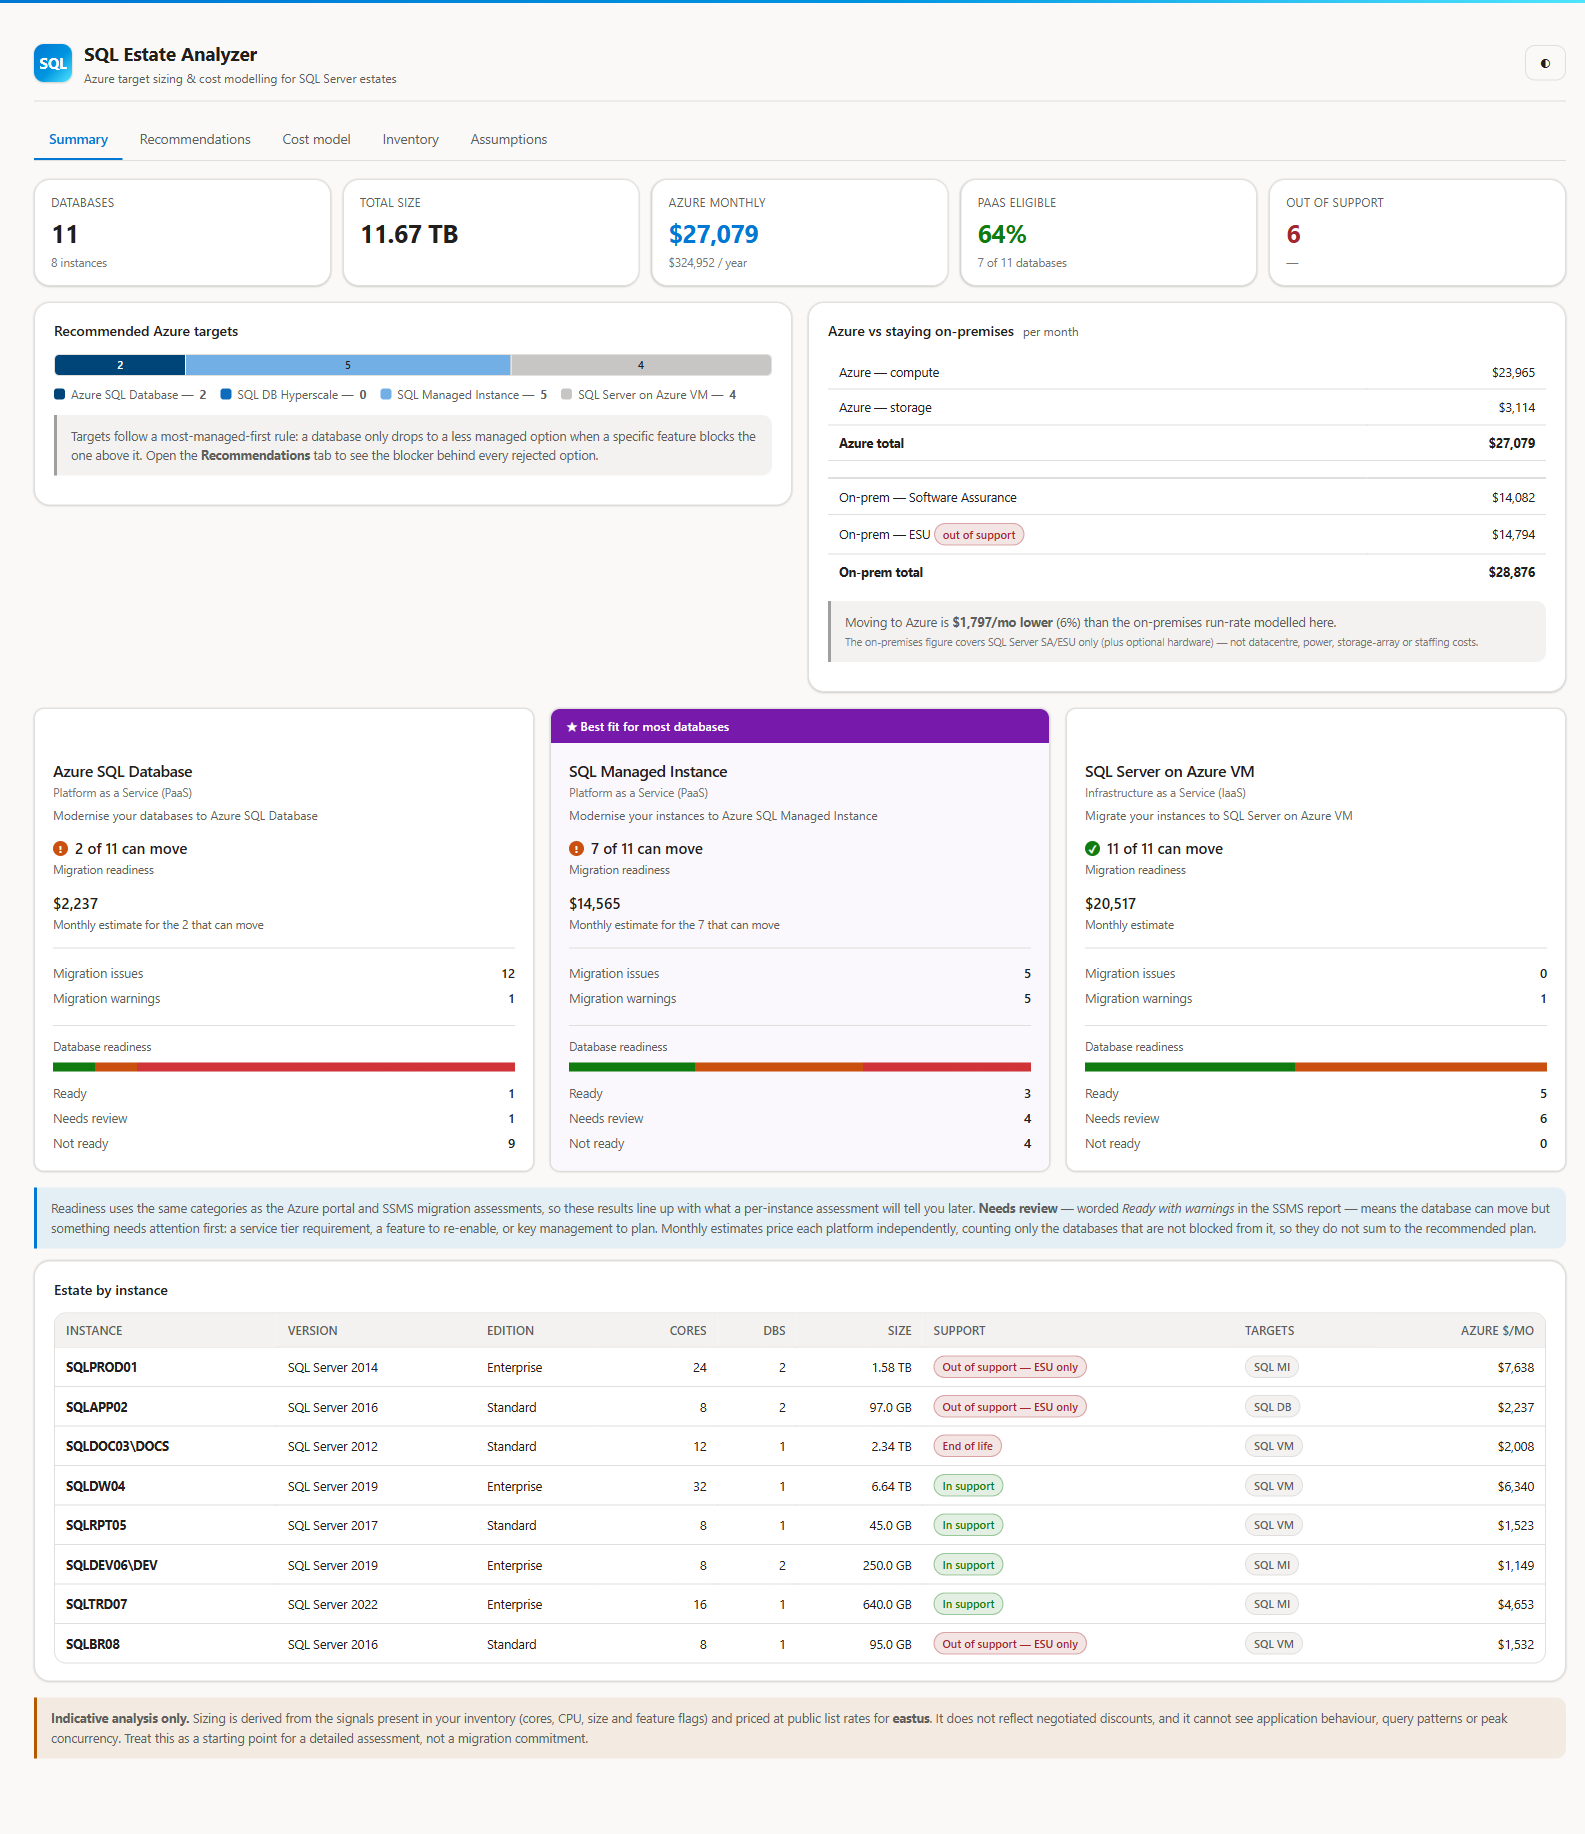
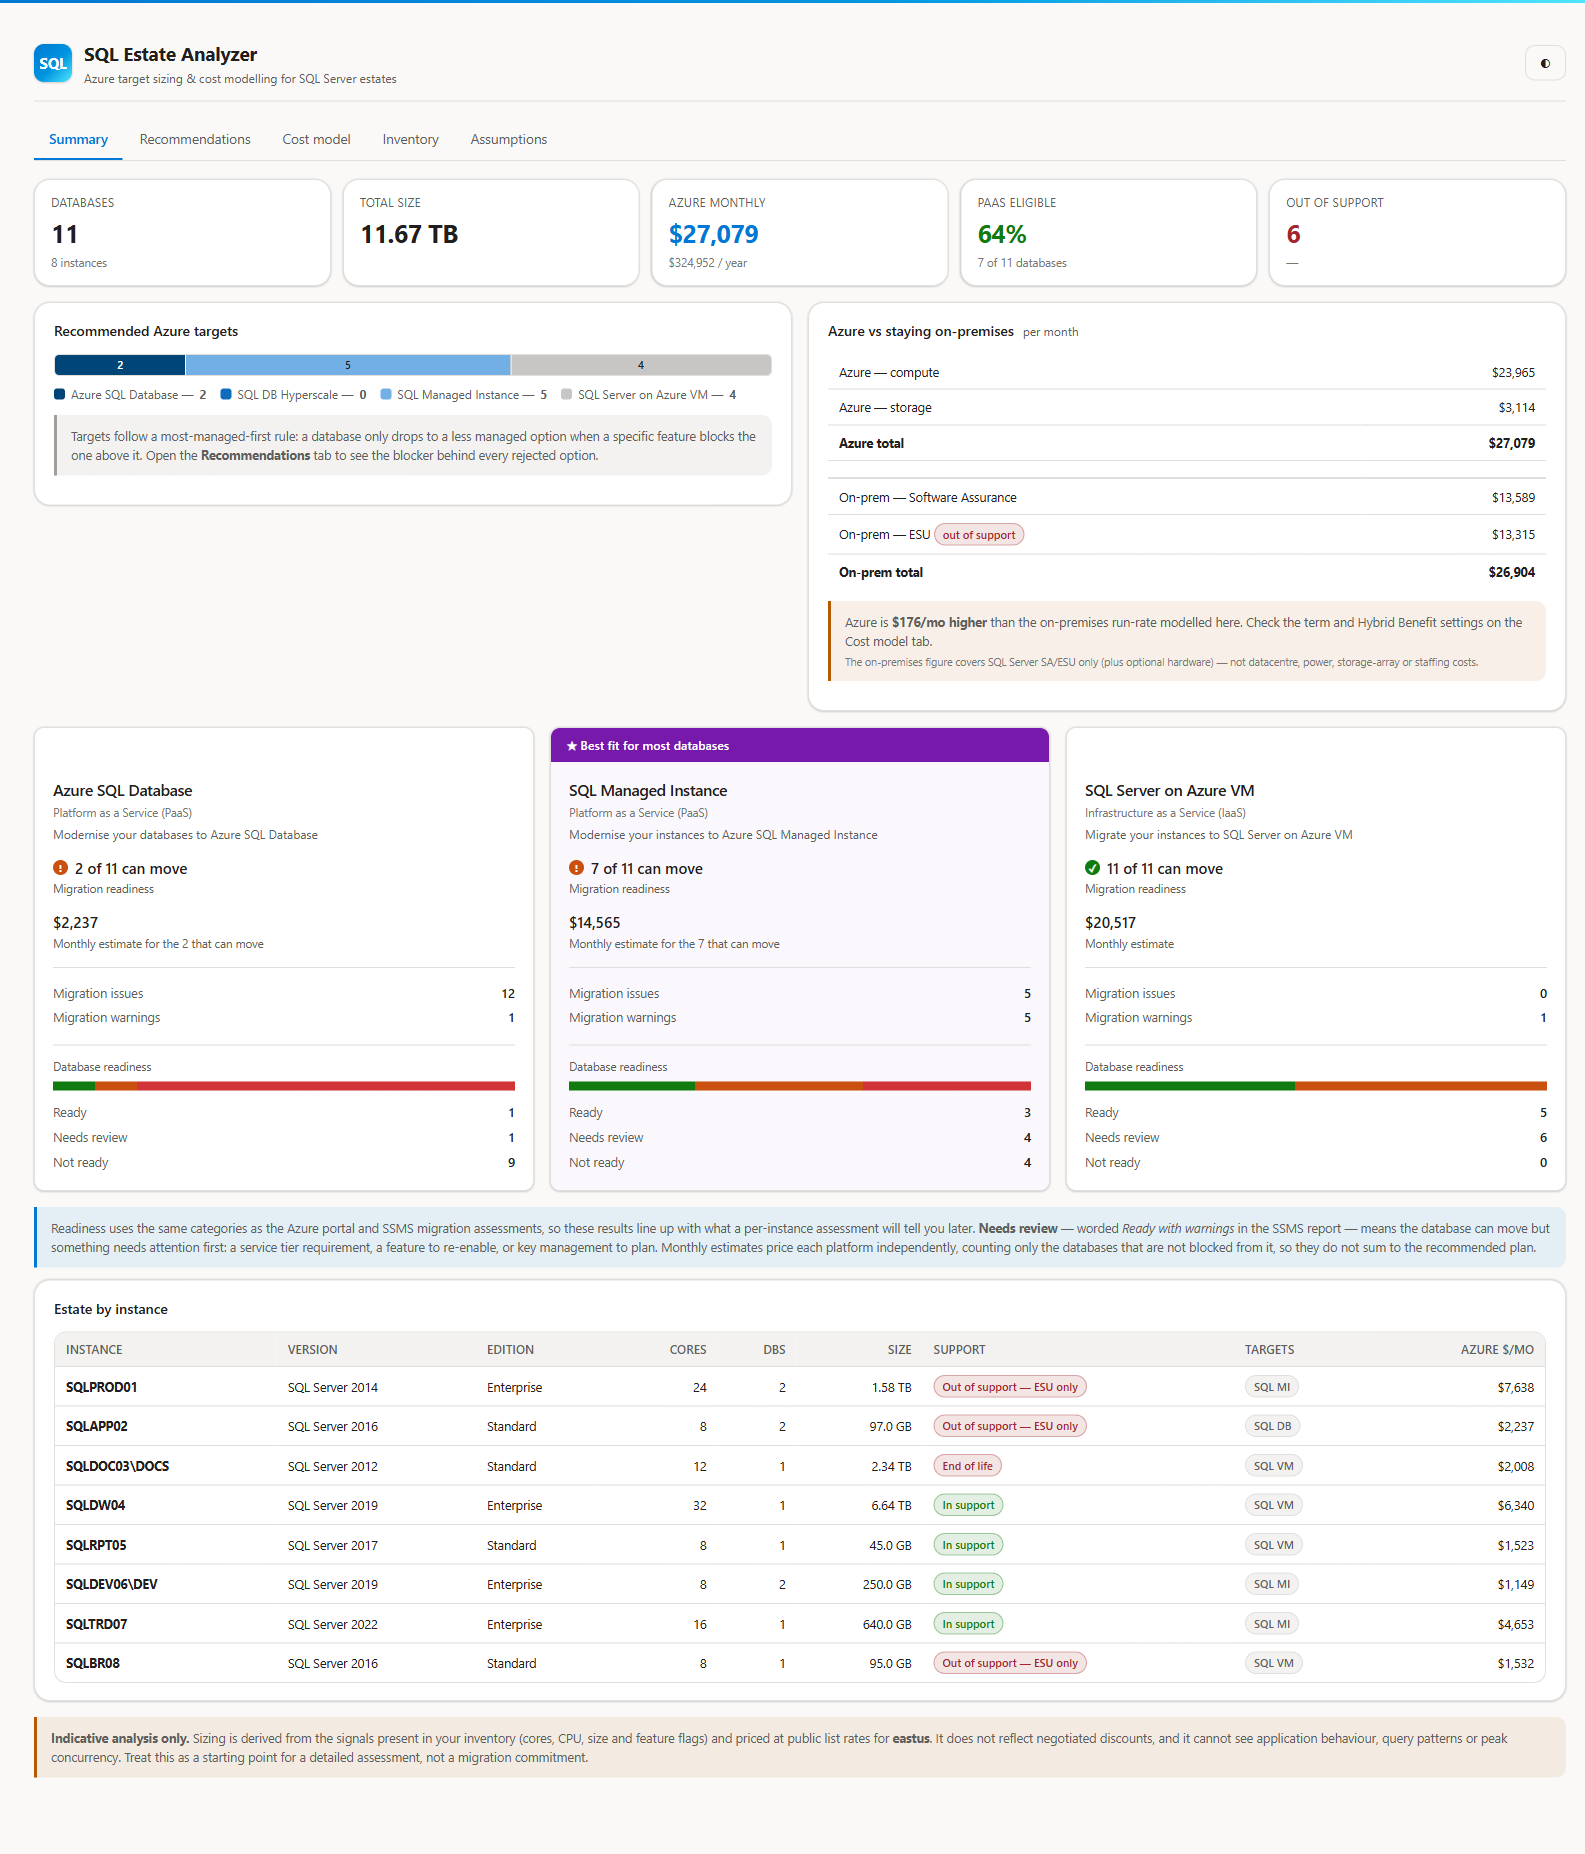
Stop presenting defaulted inputs as if they were collected
Two fields the model depends on cannot be read out of SQL Server, so the
discovery script emits them blank - and the analyzer was quietly filling
them in.

Software Assurance was the real bug. hasSA was parsed onto every row and
then never read: onPremInstanceCost charged an SA renewal unconditionally.
Any customer without SA saw an inflated on-premises baseline, which biases
the comparison in Azure's favour - the worst direction for a number you
put in front of a customer. It is now honoured, and an explicit No zeroes
the ESU line too, since ESU cannot be bought without active SA.

Environment defaults to production, which is the right conservative call
but was invisible. On a real discovery CSV that means every database gets
Business Critical if the instance is Enterprise, full-month hours and no
dev/test discount.

The two defaults push the estimate in opposite directions and neither was
disclosed, so adds a Source data coverage card listing any influential
field the inventory did not supply and the default applied. It only
appears when there are gaps - the demo estate supplies both, so it stays
hidden there and shows up on a real collector run.

Verified against an actual discovery CSV rather than the demo: Environment,
Software Assurance and CPU all report 0 of 2 supplied, and forcing
HasSoftwareAssurance=No moves the on-premises baseline from $329/mo to $0
and flips the verdict from Azure $783 higher to $1,111 higher.

diff --git a/index.html b/index.html
@@ -662,6 +662,43 @@ function isProd(env) {
   return !/dev|test|qa|uat|stage|staging|sandbox|training|demo|poc/.test(s);
 }
 
+/* Software Assurance cannot be read from SQL Server, so the discovery script
+   leaves it blank for the customer to fill in. Blank means "assume covered",
+   which is the common enterprise case — but an explicit No must be honoured,
+   otherwise the on-premises baseline carries an SA renewal the customer does
+   not actually pay and Azure looks better than it is. */
+function hasSoftwareAssurance(r) {
+  const s = String(r?.hasSA ?? "").trim().toLowerCase();
+  if (!s) return true;
+  return !/^(no|n|false|0|none)$/.test(s);
+}
+
+/* Which influential fields the loaded inventory actually supplied. SQL Server
+   cannot report several of these, so they arrive blank from the discovery script
+   and the model falls back to a default. Surfaced on the summary so nobody reads
+   a defaulted number as a measured one. */
+function dataCoverage() {
+  const n = S.rows.length || 1;
+  const has = (f) => S.rows.filter(f).length;
+  return [
+    { key: "environment", label: "Environment",
+      n: has(r => String(r.environment || "").trim()),
+      effect: "every database priced as production — Business Critical for Enterprise editions, full-month hours, no dev/test discount" },
+    { key: "hasSA", label: "Software Assurance",
+      n: has(r => String(r.hasSA ?? "").trim()),
+      effect: "on-premises baseline assumes SA is renewed on every instance" },
+    { key: "cpuPct", label: "CPU utilisation",
+      n: has(r => r.cpuPct != null && r.cpuPct !== ""),
+      effect: "right-sizing from CPU is unavailable — sizing matches the existing core count" },
+    { key: "cores", label: "Cores",
+      n: has(r => r.cores > 0),
+      effect: "sizing falls back to the minimum vCore count" },
+    { key: "memoryGb", label: "Memory",
+      n: has(r => r.memoryGb > 0),
+      effect: "VM selection cannot honour a memory requirement" },
+  ].map(f => ({ ...f, total: S.rows.length, pct: 100 * f.n / n }));
+}
+
 /* ---------------------------------------------------------------------------
    4. Target-fit rules engine
    --------------------------------------------------------------------------- */
@@ -975,9 +1012,12 @@ function onPremInstanceCost(rows) {
   const listPerPack = isEnt ? A.licEntPer2Core : A.licStdPer2Core;
   const licList = packs * listPerPack;
 
-  const saYr = licList * (A.saPctOfLicense / 100);
+  const saYr = hasSoftwareAssurance(r0) ? licList * (A.saPctOfLicense / 100) : 0;
   const sup = supportState(majorFrom(r0));
-  const esuYr = (sup.state === "esu" || sup.state === "eol") ? licList * (A.esuPctOfLicense / 100) : 0;
+  // ESU is only purchasable with active SA (or through Arc), so without SA there
+  // is no ESU line either — the exposure is that the estate simply runs unpatched.
+  const esuYr = (hasSoftwareAssurance(r0) && (sup.state === "esu" || sup.state === "eol"))
+    ? licList * (A.esuPctOfLicense / 100) : 0;
   const hwYr = (A.onPremHwPerCoreYr || 0) * cores;
 
   return { cores, packs, isEnt, licList, saYr, esuYr, hwYr, totalYr: saYr + esuYr + hwYr, sup };
@@ -1353,7 +1393,7 @@ function renderSummary() {
             ${t.license > 0 ? `<tr><td>Azure — SQL licence</td><td class="num">${FMT.money(t.license)}</td></tr>` : ""}
             <tr><td><b>Azure total</b></td><td class="num"><b>${FMT.money(t.monthly)}</b></td></tr>
             <tr><td colspan="2" style="border-bottom:2px solid var(--cp-border)"></td></tr>
-            <tr><td>On-prem — Software Assurance</td><td class="num">${FMT.money(op.sa / 12)}</td></tr>
+            <tr><td>On-prem — Software Assurance${op.sa > 0 ? "" : ' <span class="pill gray">not held</span>'}</td><td class="num">${FMT.money(op.sa / 12)}</td></tr>
             ${op.esu > 0 ? `<tr><td>On-prem — ESU <span class="pill red">out of support</span></td><td class="num">${FMT.money(op.esu / 12)}</td></tr>` : ""}
             ${op.hw > 0 ? `<tr><td>On-prem — hardware/hosting</td><td class="num">${FMT.money(op.hw / 12)}</td></tr>` : ""}
             <tr><td><b>On-prem total</b></td><td class="num"><b>${FMT.money(op.monthly)}</b></td></tr>
@@ -1434,6 +1474,38 @@ function renderSummary() {
         management to plan. Monthly estimates price each platform independently, counting only the databases
         that are not blocked from it, so they do not sum to the recommended plan.
       </div>`;
+    })()}
+
+    ${(() => {
+      const gaps = dataCoverage().filter(f => f.n < f.total);
+      if (!gaps.length) return "";
+      return `
+        <div class="card">
+          <h3>Source data coverage <span class="hint">what the inventory did not supply, and the default applied</span></h3>
+          <div class="tbl-wrap">
+            <table>
+              <thead><tr>
+                <th class="nosort">Field</th>
+                <th class="nosort num">Supplied</th>
+                <th class="nosort">Effect on this analysis</th>
+              </tr></thead>
+              <tbody>
+                ${gaps.map(f => `
+                  <tr>
+                    <td><b>${f.label}</b></td>
+                    <td class="num">${f.n} of ${f.total}</td>
+                    <td class="wrap-cell">${f.effect}</td>
+                  </tr>`).join("")}
+              </tbody>
+            </table>
+          </div>
+          <div class="note warn">
+            SQL Server cannot report <b>Environment</b> or <b>Software Assurance</b> — the discovery script
+            leaves those columns blank for you to fill in, and they move the numbers in opposite directions.
+            Marking non-production databases lowers the Azure estimate; marking instances without SA lowers
+            the on-premises baseline. Add them to the CSV and load it again for a defensible comparison.
+          </div>
+        </div>`;
     })()}
 
     <div class="card">

diff --git a/src/app.part1.js b/src/app.part1.js
@@ -217,6 +217,43 @@ function isProd(env) {
   return !/dev|test|qa|uat|stage|staging|sandbox|training|demo|poc/.test(s);
 }
 
+/* Software Assurance cannot be read from SQL Server, so the discovery script
+   leaves it blank for the customer to fill in. Blank means "assume covered",
+   which is the common enterprise case — but an explicit No must be honoured,
+   otherwise the on-premises baseline carries an SA renewal the customer does
+   not actually pay and Azure looks better than it is. */
+function hasSoftwareAssurance(r) {
+  const s = String(r?.hasSA ?? "").trim().toLowerCase();
+  if (!s) return true;
+  return !/^(no|n|false|0|none)$/.test(s);
+}
+
+/* Which influential fields the loaded inventory actually supplied. SQL Server
+   cannot report several of these, so they arrive blank from the discovery script
+   and the model falls back to a default. Surfaced on the summary so nobody reads
+   a defaulted number as a measured one. */
+function dataCoverage() {
+  const n = S.rows.length || 1;
+  const has = (f) => S.rows.filter(f).length;
+  return [
+    { key: "environment", label: "Environment",
+      n: has(r => String(r.environment || "").trim()),
+      effect: "every database priced as production — Business Critical for Enterprise editions, full-month hours, no dev/test discount" },
+    { key: "hasSA", label: "Software Assurance",
+      n: has(r => String(r.hasSA ?? "").trim()),
+      effect: "on-premises baseline assumes SA is renewed on every instance" },
+    { key: "cpuPct", label: "CPU utilisation",
+      n: has(r => r.cpuPct != null && r.cpuPct !== ""),
+      effect: "right-sizing from CPU is unavailable — sizing matches the existing core count" },
+    { key: "cores", label: "Cores",
+      n: has(r => r.cores > 0),
+      effect: "sizing falls back to the minimum vCore count" },
+    { key: "memoryGb", label: "Memory",
+      n: has(r => r.memoryGb > 0),
+      effect: "VM selection cannot honour a memory requirement" },
+  ].map(f => ({ ...f, total: S.rows.length, pct: 100 * f.n / n }));
+}
+
 /* ---------------------------------------------------------------------------
    4. Target-fit rules engine
    --------------------------------------------------------------------------- */
@@ -530,9 +567,12 @@ function onPremInstanceCost(rows) {
   const listPerPack = isEnt ? A.licEntPer2Core : A.licStdPer2Core;
   const licList = packs * listPerPack;
 
-  const saYr = licList * (A.saPctOfLicense / 100);
+  const saYr = hasSoftwareAssurance(r0) ? licList * (A.saPctOfLicense / 100) : 0;
   const sup = supportState(majorFrom(r0));
-  const esuYr = (sup.state === "esu" || sup.state === "eol") ? licList * (A.esuPctOfLicense / 100) : 0;
+  // ESU is only purchasable with active SA (or through Arc), so without SA there
+  // is no ESU line either — the exposure is that the estate simply runs unpatched.
+  const esuYr = (hasSoftwareAssurance(r0) && (sup.state === "esu" || sup.state === "eol"))
+    ? licList * (A.esuPctOfLicense / 100) : 0;
   const hwYr = (A.onPremHwPerCoreYr || 0) * cores;
 
   return { cores, packs, isEnt, licList, saYr, esuYr, hwYr, totalYr: saYr + esuYr + hwYr, sup };

diff --git a/src/app.part2.js b/src/app.part2.js
@@ -367,7 +367,7 @@ function renderSummary() {
             ${t.license > 0 ? `<tr><td>Azure — SQL licence</td><td class="num">${FMT.money(t.license)}</td></tr>` : ""}
             <tr><td><b>Azure total</b></td><td class="num"><b>${FMT.money(t.monthly)}</b></td></tr>
             <tr><td colspan="2" style="border-bottom:2px solid var(--cp-border)"></td></tr>
-            <tr><td>On-prem — Software Assurance</td><td class="num">${FMT.money(op.sa / 12)}</td></tr>
+            <tr><td>On-prem — Software Assurance${op.sa > 0 ? "" : ' <span class="pill gray">not held</span>'}</td><td class="num">${FMT.money(op.sa / 12)}</td></tr>
             ${op.esu > 0 ? `<tr><td>On-prem — ESU <span class="pill red">out of support</span></td><td class="num">${FMT.money(op.esu / 12)}</td></tr>` : ""}
             ${op.hw > 0 ? `<tr><td>On-prem — hardware/hosting</td><td class="num">${FMT.money(op.hw / 12)}</td></tr>` : ""}
             <tr><td><b>On-prem total</b></td><td class="num"><b>${FMT.money(op.monthly)}</b></td></tr>
@@ -448,6 +448,38 @@ function renderSummary() {
         management to plan. Monthly estimates price each platform independently, counting only the databases
         that are not blocked from it, so they do not sum to the recommended plan.
       </div>`;
+    })()}
+
+    ${(() => {
+      const gaps = dataCoverage().filter(f => f.n < f.total);
+      if (!gaps.length) return "";
+      return `
+        <div class="card">
+          <h3>Source data coverage <span class="hint">what the inventory did not supply, and the default applied</span></h3>
+          <div class="tbl-wrap">
+            <table>
+              <thead><tr>
+                <th class="nosort">Field</th>
+                <th class="nosort num">Supplied</th>
+                <th class="nosort">Effect on this analysis</th>
+              </tr></thead>
+              <tbody>
+                ${gaps.map(f => `
+                  <tr>
+                    <td><b>${f.label}</b></td>
+                    <td class="num">${f.n} of ${f.total}</td>
+                    <td class="wrap-cell">${f.effect}</td>
+                  </tr>`).join("")}
+              </tbody>
+            </table>
+          </div>
+          <div class="note warn">
+            SQL Server cannot report <b>Environment</b> or <b>Software Assurance</b> — the discovery script
+            leaves those columns blank for you to fill in, and they move the numbers in opposite directions.
+            Marking non-production databases lowers the Azure estimate; marking instances without SA lowers
+            the on-premises baseline. Add them to the CSV and load it again for a defensible comparison.
+          </div>
+        </div>`;
     })()}
 
     <div class="card">

diff --git a/README.md b/README.md
@@ -187,6 +187,30 @@ query text** — safe to hand to a DBA for review before running.
 
 Requires SQL Server 2012 or later and `VIEW SERVER STATE` + `VIEW ANY DEFINITION`.
 
+### What it cannot collect, and why that matters
+
+Two columns change the numbers but cannot be read out of SQL Server. The script
+emits them blank for you to fill in, and the analyzer shows a **Source data
+coverage** card listing anything the inventory did not supply and the default
+applied — so a defaulted figure is never mistaken for a measured one.
+
+| Column | Blank means | Effect |
+|---|---|---|
+| `Environment` | Treated as **production** | Business Critical for Enterprise editions, full-month hours, no dev/test discount — raises the Azure estimate |
+| `HasSoftwareAssurance` | Treated as **covered** | An SA renewal is charged on every instance — raises the on-premises baseline |
+
+They pull in opposite directions, so filling both in is what turns the comparison
+from indicative into defensible. Marking dev and test databases lowers the Azure
+side; marking instances without SA lowers the on-premises side. An explicit `No`
+zeroes both the SA and ESU lines, since ESU cannot be bought without active SA.
+
+`LicenseModel`, `BusinessOwner`, `RtoHours`, `RpoMinutes`, `IsVirtualised` and
+`Notes` are emitted for your own planning and are not consumed by the model.
+
+`AvgCpuPct` and `PeakCpuPct` come from the ring buffer, which is empty on a
+recently restarted instance. Where they are missing, sizing falls back to matching
+the existing core count rather than right-sizing from observed demand.
+
 ## How recommendations are made
 
 Each database is tested against a rule set of features unsupported on specific
